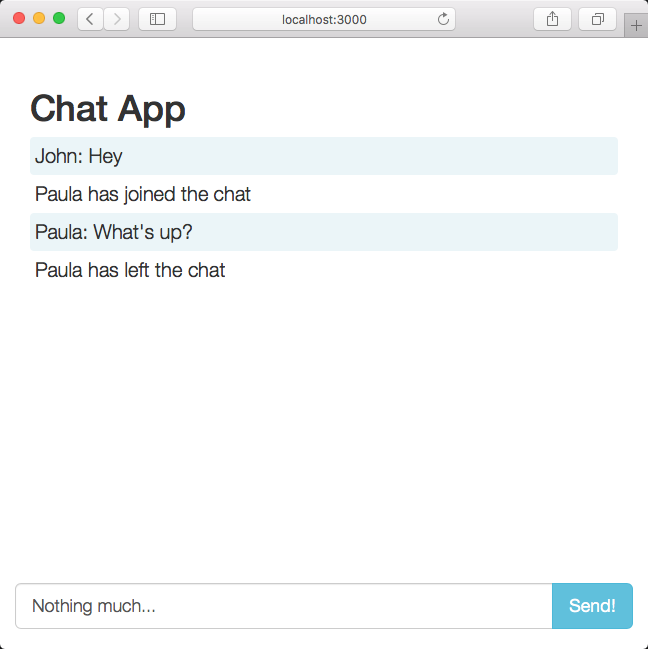
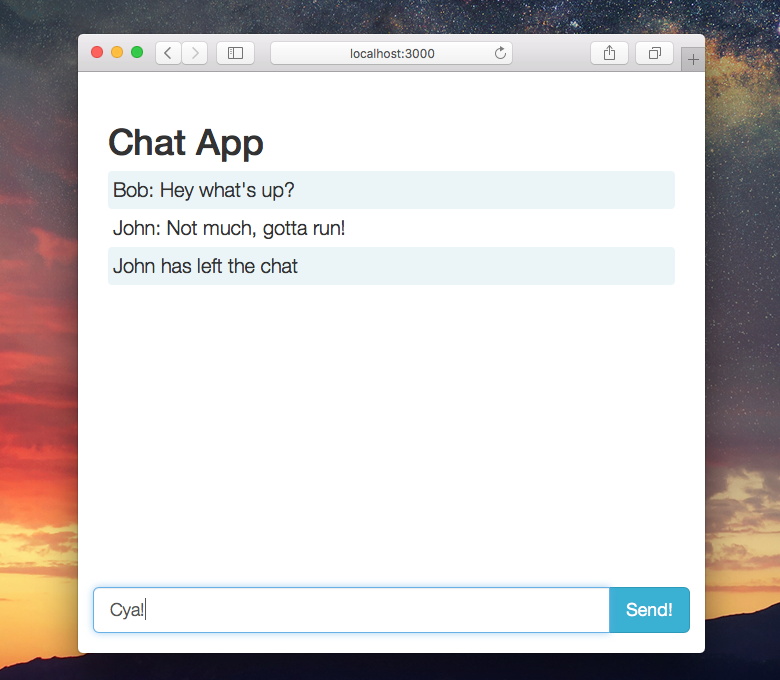
readme and screeshot updates

diff --git a/readme.md b/readme.md
@@ -14,3 +14,5 @@ Inspired by the socket.io "Get Started: Chat Application" resource found [here](
 ##Features  
 - Notifies when user joins and leaves the chat
 - Displays 10 previous chats for a new user upon joining
+
+![chatapp](https://raw.githubusercontent.com/johnfoderaro/chat-app/master/screenshot.png)
